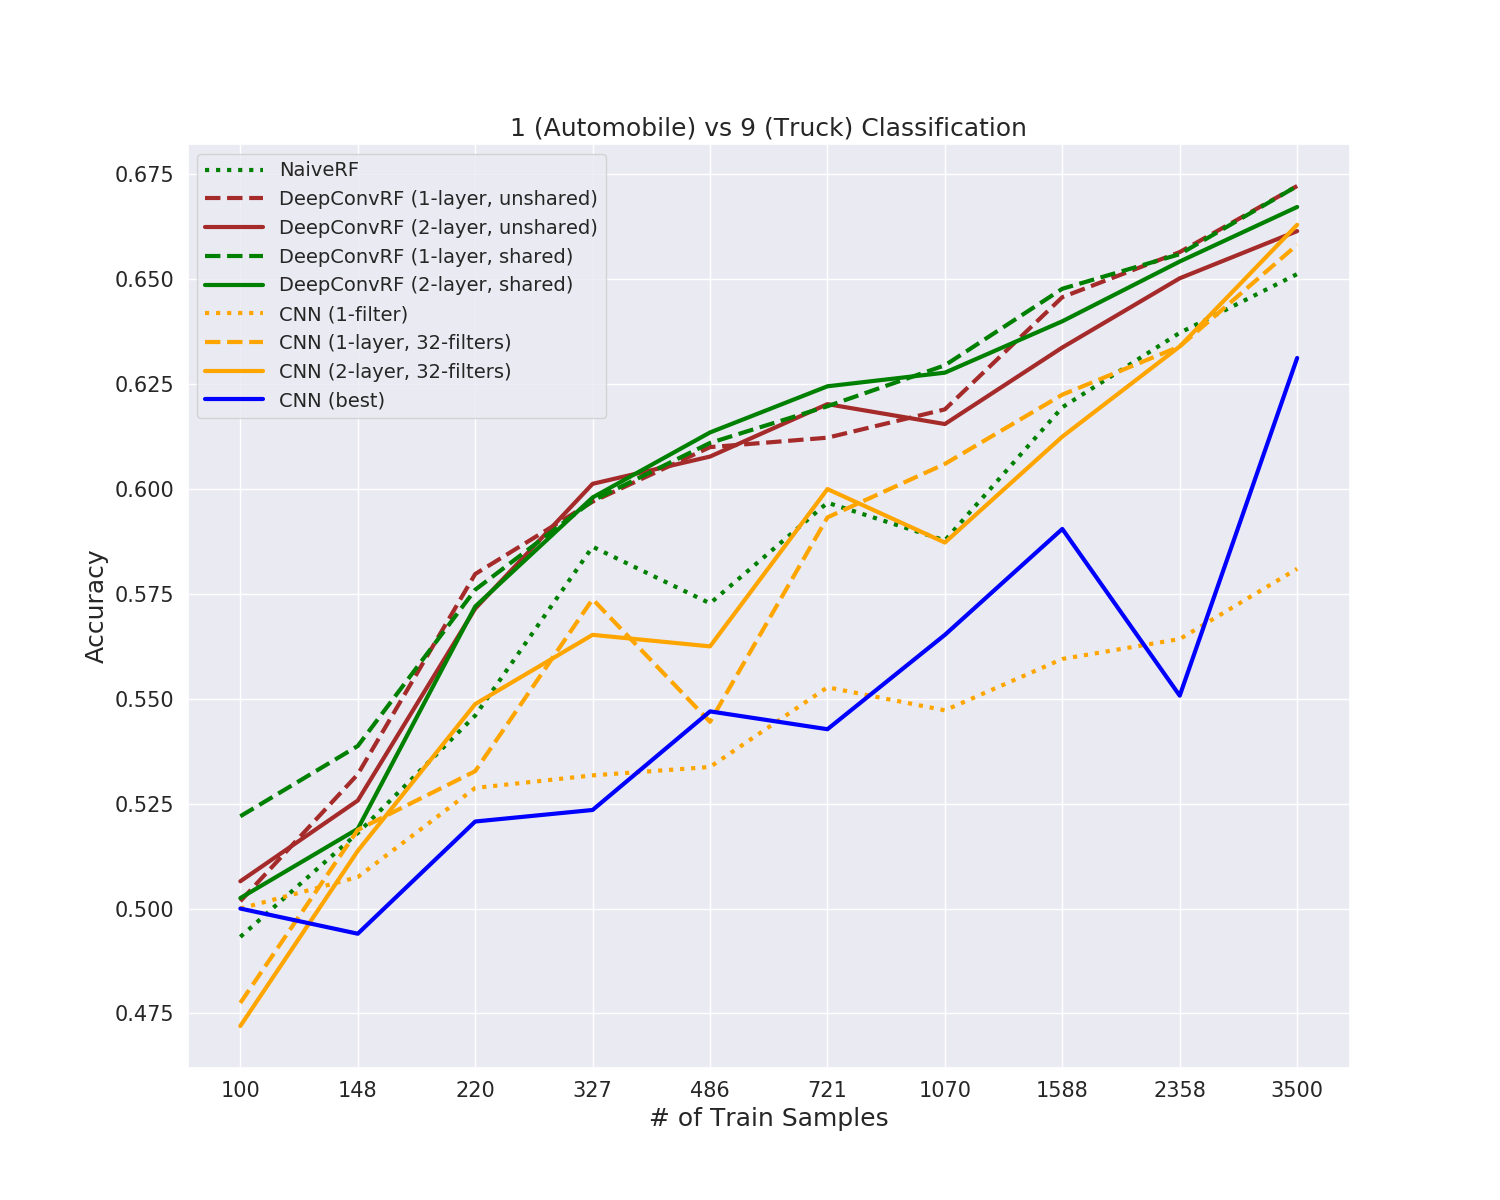
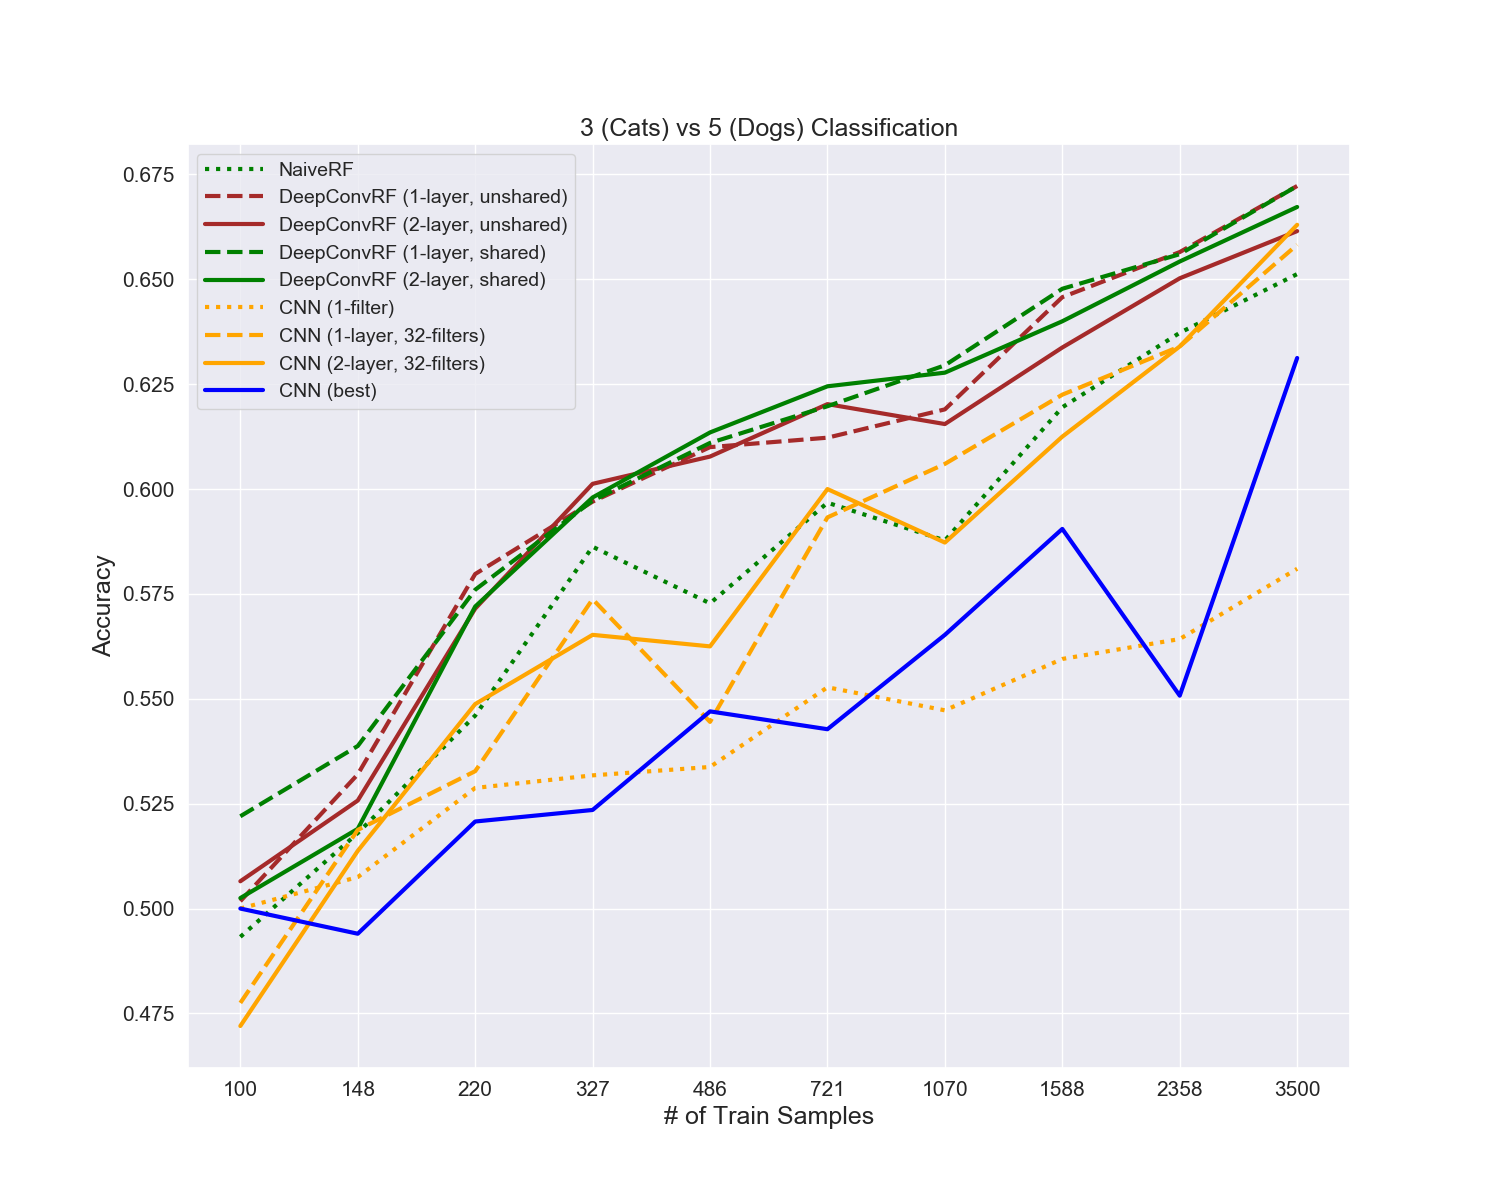
Fix figure label in 3vs5 case

diff --git a/experiments/DeepConvRF/DeepConvSharedRFBaselineCIFAR10.py b/experiments/DeepConvRF/DeepConvSharedRFBaselineCIFAR10.py
@@ -25,8 +25,8 @@ warnings.filterwarnings("ignore")
 ##########
 # Settings
 ##########
-base_path = ""
-# base_path = "35_percent_data/1vs9/"
+# base_path = ""
+base_path = "experiments/DeepConvRF/35_percent_data/3vs5/"
 class_one = 3
 class_two = 5
 
@@ -42,13 +42,13 @@ def normalize(x):
 
 # train data
 cifar_trainset = datasets.CIFAR10(root='./data', train=True, download=True, transform=None)
-cifar_train_images = normalize(cifar_trainset.data)
-cifar_train_labels = np.array(cifar_trainset.targets)
+cifar_train_images = normalize(cifar_trainset.train_data)
+cifar_train_labels = np.array(cifar_trainset.train_labels)
 
 # test data
 cifar_testset = datasets.CIFAR10(root='./data', train=False, download=True, transform=None)
-cifar_test_images = normalize(cifar_testset.data)
-cifar_test_labels = np.array(cifar_testset.targets)
+cifar_test_images = normalize(cifar_testset.test_data)
+cifar_test_labels = np.array(cifar_testset.test_labels)
 
 # # 3 (cat) vs 5 (dog) classification
 #
@@ -657,7 +657,7 @@ ax.get_xaxis().set_major_formatter(matplotlib.ticker.ScalarFormatter())
 
 ax.set_ylabel('Accuracy', fontsize=18)
 
-ax.set_title("1 (Automobile) vs 9 (Truck) Classification", fontsize=18)
+ax.set_title("3 (Cats) vs 5 (Dogs) Classification", fontsize=18)
 plt.legend()
 plt.savefig(base_path+"rf_deepconvrf_cnn_comparisons.png")
 
